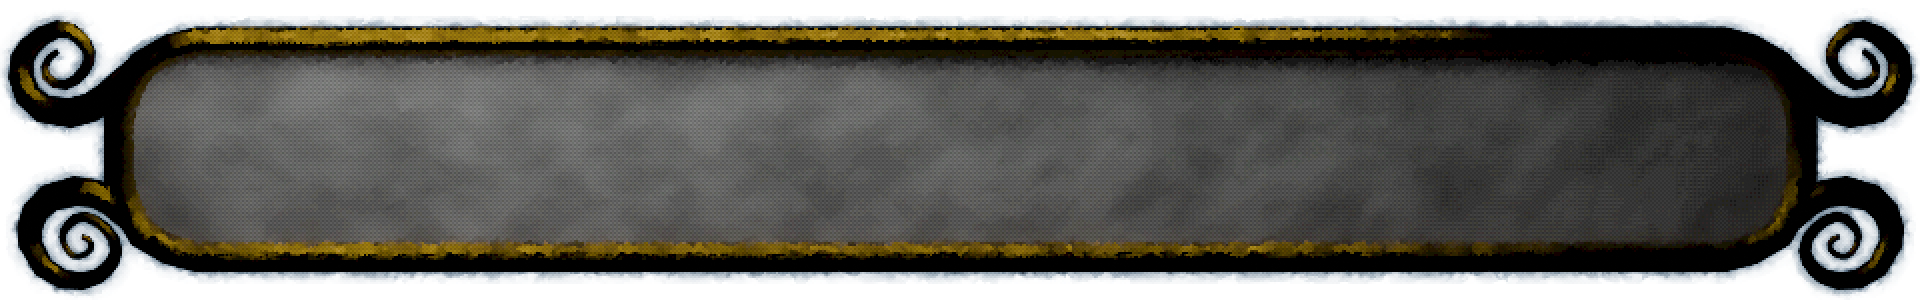
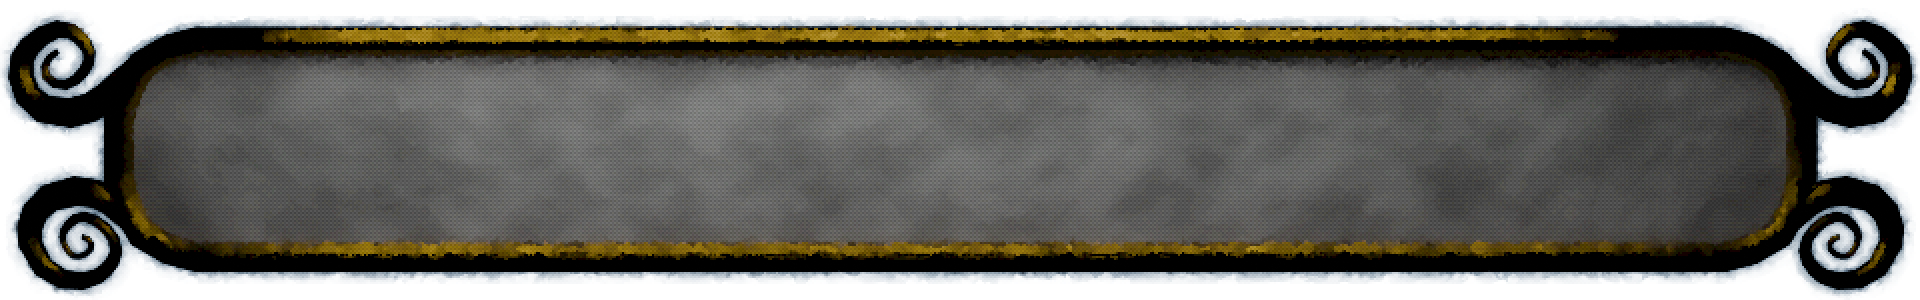
Recipes

diff --git a/src/game/alchemy.rs b/src/game/alchemy.rs
@@ -73,6 +73,7 @@ pub struct Recipe {
 #[derive(Debug, Clone, Serialize, Deserialize, PartialEq, Eq, PartialOrd, Ord, Hash)]
 pub enum Ingredient {
     Alchemy(AlchemyItems),
+    Fluid(AlchemyFluid),
     Element(Element),
 }
 
@@ -105,13 +106,21 @@ pub enum AlchemyItems {
     IcyPowder,
     SunflowerPowder,
     HealthPotion,
+    BasicPotion,
     MoltenSnowman,
     Snowman,
+    EternalSnow,
     Flask,
     PhilosopherStone,
     Lead,
     Gold,
     Cheese,
+}
+
+#[derive(Debug, Clone, Serialize, Deserialize, PartialEq, Eq, PartialOrd, Ord, Hash, Reflect)]
+pub enum AlchemyFluid {
+    BasicPotion,
+    HealthPotion,
 }
 
 #[derive(Debug, Clone, Serialize, Deserialize, Reflect)]
